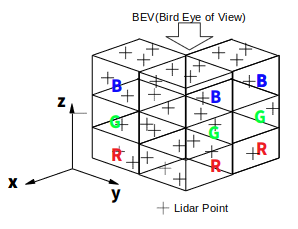
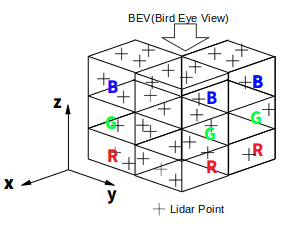
fix typo

Changed region(s): [[0.1856, 0.0306, 0.9588, 0.8865], [0.5258, 0.8865, 0.7732, 0.9476], [0.0, 0.7642, 0.1237, 0.8253]]

diff --git a/README.md b/README.md
@@ -15,13 +15,15 @@ For more details about this dataset please refer to [the lyft page](https://gith
 
 ### Training scheme: 2d segmentation with BEV.
 In this repo, [the baseline](https://www.kaggle.com/gzuidhof/reference-model) is re-implemented.
- At this baseline each 3d lidar scan is converted into simple BEV, Bird Eye of View image, like below.
- Along z axis lidar 3d point space is split into 3 bins and each bin mapped into channel axis of normal 2d image.
- x-y plane gird become pixel of BEV image.
- The target 3d bounding box is also cast into BEV as 2d mask and training is conducted as 2d segmentation.
- After the training 2d predicted mask will cast back to 3d bounding box.
+ At this baseline each 3d lidar scan is converted into simple BEV, Bird Eye View image, like below.
 
 ![bev_explain](./visualization/bev_multi_explain.png)
+
+ Along z axis lidar 3d point space is split into 3 bins and each bin mapped into channel axis of normal 2d image.
+ x-y plane gird become pixel for BEV image, left figure below.
+ The target 3d bounding box is also cast into BEV as 2d mask, right figure below, and training is conducted as 2d segmentation.
+ After the training 2d predicted mask will cast back to 3d bounding box.
+
 ![input bev image 0](./visualization/1f4e69ac22afb4d41b2893ab6ccf74f148b99dd747240f074663c44efe9eec59_input_0.png)
 ![input bev image 1](./visualization/1f4e69ac22afb4d41b2893ab6ccf74f148b99dd747240f074663c44efe9eec59_target.png)
 
